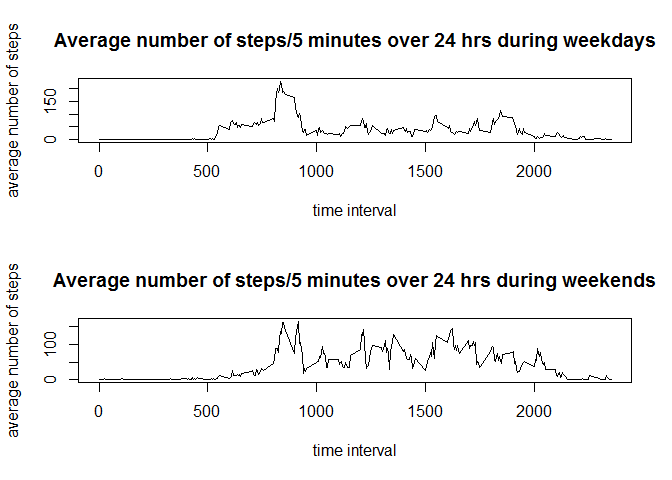
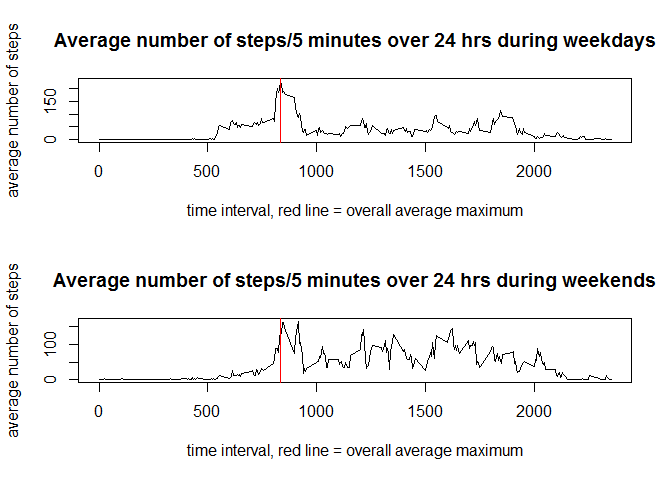
Third commit to github - actual submission is all these files plus the figures unchanged from the second commit which for some reason won't commit again.

Changed region(s): [[0.2812, 0.9062, 0.7812, 0.9688], [0.2812, 0.4062, 0.7812, 0.4688]]

diff --git a/PA1_template.html b/PA1_template.html
@@ -279,13 +279,26 @@ fun6 &lt;- function (x) {
 }
 westeps &lt;- sapply(x, fun6)
 
-par(mfcol = c(2,1))
+# to determine average maximum activity period of 5 minutes
+totact &lt;- wksteps+westeps
+maxact &lt;- max(totact)
+tot &lt;- cbind(totact,ints)
+maxtot &lt;- tot[totact == maxact,]
+maxStepTime &lt;- maxtot[2]
+maxStepTime</code></pre>
+<pre><code>## ints 
+##  835</code></pre>
+<pre class="r"><code>par(mfcol = c(2,1))
 
-plot(ints,wksteps, type = &quot;l&quot;, main = &quot;Average number of steps/5 minutes over 24 hrs during weekdays&quot;, xlab = &quot;time interval&quot;, ylab = &quot;average number of steps&quot;)
+plot(ints,wksteps, type = &quot;l&quot;, main = &quot;Average number of steps/5 minutes over 24 hrs during weekdays&quot;, xlab = &quot;time interval, red line = overall average maximum&quot;, ylab = &quot;average number of steps&quot;)
+abline(v = maxStepTime, col = 2)
 
-plot(ints,westeps, type = &quot;l&quot;, main = &quot;Average number of steps/5 minutes over 24 hrs during weekends&quot;, xlab = &quot;time interval&quot;, ylab = &quot;average number of steps&quot;)</code></pre>
[1 lines of base64/hex data omitted]
-<p>Comparing the plots of weekday and weekend activity, it seems that the subject was more active early in the morining on weekdays, and more active in the middle of the day and in the evenings at weekends. The peak in walking activity is around mid-morning on both weekdays and weekends. Total steps taken and avergae steps per 5 minutes tend to be higher at weekends. However the highest peak activity occurred during a weekday.</p>
+plot(ints,westeps, type = &quot;l&quot;, main = &quot;Average number of steps/5 minutes over 24 hrs during weekends&quot;, xlab = &quot;time interval, red line = overall average maximum&quot;, ylab = &quot;average number of steps&quot;)
+abline(v = maxStepTime, col = 2)</code></pre>
[1 lines of base64/hex data omitted]
+<p>The peak in average activity for all days combined was during the time interval given by masStepTime, which was 835</p>
+<p>Comparing the plots of weekday and weekend activity, it seems that the subject was more active early in the morining on weekdays, and more active in the middle of the day and in the evenings at weekends.</p>
+<p>The peak in walking activity is around mid-morning on both weekdays and weekends. Total steps taken and average steps per 5 minutes tend to be higher at weekends. However the highest peak activity occurred during a weekday.</p>
 </div>
 <div id="conclusion" class="section level2">
 <h2>Conclusion:</h2>

diff --git a/PA1_template.md b/PA1_template.md
@@ -384,16 +384,37 @@ fun6 <- function (x) {
 }
 westeps <- sapply(x, fun6)
 
+# to determine average maximum activity period of 5 minutes
+totact <- wksteps+westeps
+maxact <- max(totact)
+tot <- cbind(totact,ints)
+maxtot <- tot[totact == maxact,]
+maxStepTime <- maxtot[2]
+maxStepTime
+```
+
+```
+## ints 
+##  835
+```
+
+```r
 par(mfcol = c(2,1))
 
-plot(ints,wksteps, type = "l", main = "Average number of steps/5 minutes over 24 hrs during weekdays", xlab = "time interval", ylab = "average number of steps")
+plot(ints,wksteps, type = "l", main = "Average number of steps/5 minutes over 24 hrs during weekdays", xlab = "time interval, red line = overall average maximum", ylab = "average number of steps")
+abline(v = maxStepTime, col = 2)
 
-plot(ints,westeps, type = "l", main = "Average number of steps/5 minutes over 24 hrs during weekends", xlab = "time interval", ylab = "average number of steps")
+plot(ints,westeps, type = "l", main = "Average number of steps/5 minutes over 24 hrs during weekends", xlab = "time interval, red line = overall average maximum", ylab = "average number of steps")
+abline(v = maxStepTime, col = 2)
 ```
 
 ![](PA1_template_files/figure-html/unnamed-chunk-7-1.png) 
 
-Comparing the plots of weekday and weekend activity, it seems that the subject was more active early in the morining on weekdays, and more active in the middle of the day and in the evenings at weekends. The peak in walking activity is around mid-morning on both weekdays and weekends. Total steps taken and avergae steps per 5 minutes tend to be higher at weekends. However the highest peak activity occurred during a weekday.
+The peak in average activity for all days combined was during the time interval given by masStepTime, which was 835
+
+Comparing the plots of weekday and weekend activity, it seems that the subject was more active early in the morining on weekdays, and more active in the middle of the day and in the evenings at weekends. 
+
+The peak in walking activity is around mid-morning on both weekdays and weekends. Total steps taken and average steps per 5 minutes tend to be higher at weekends. However the highest peak activity occurred during a weekday.
 
 ## Conclusion:
 
